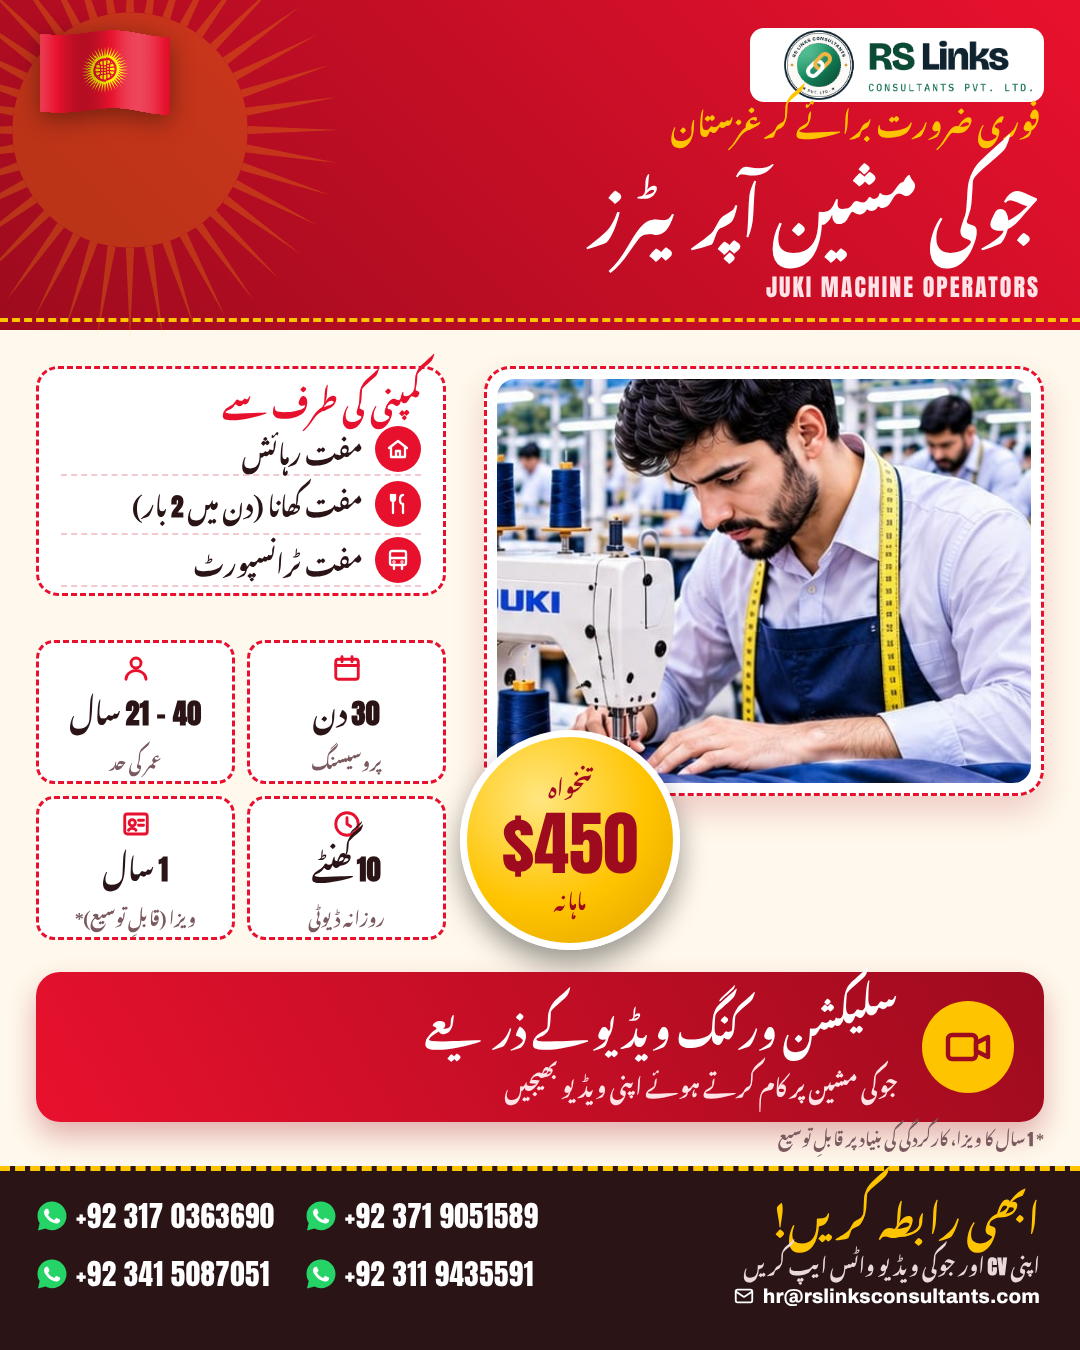
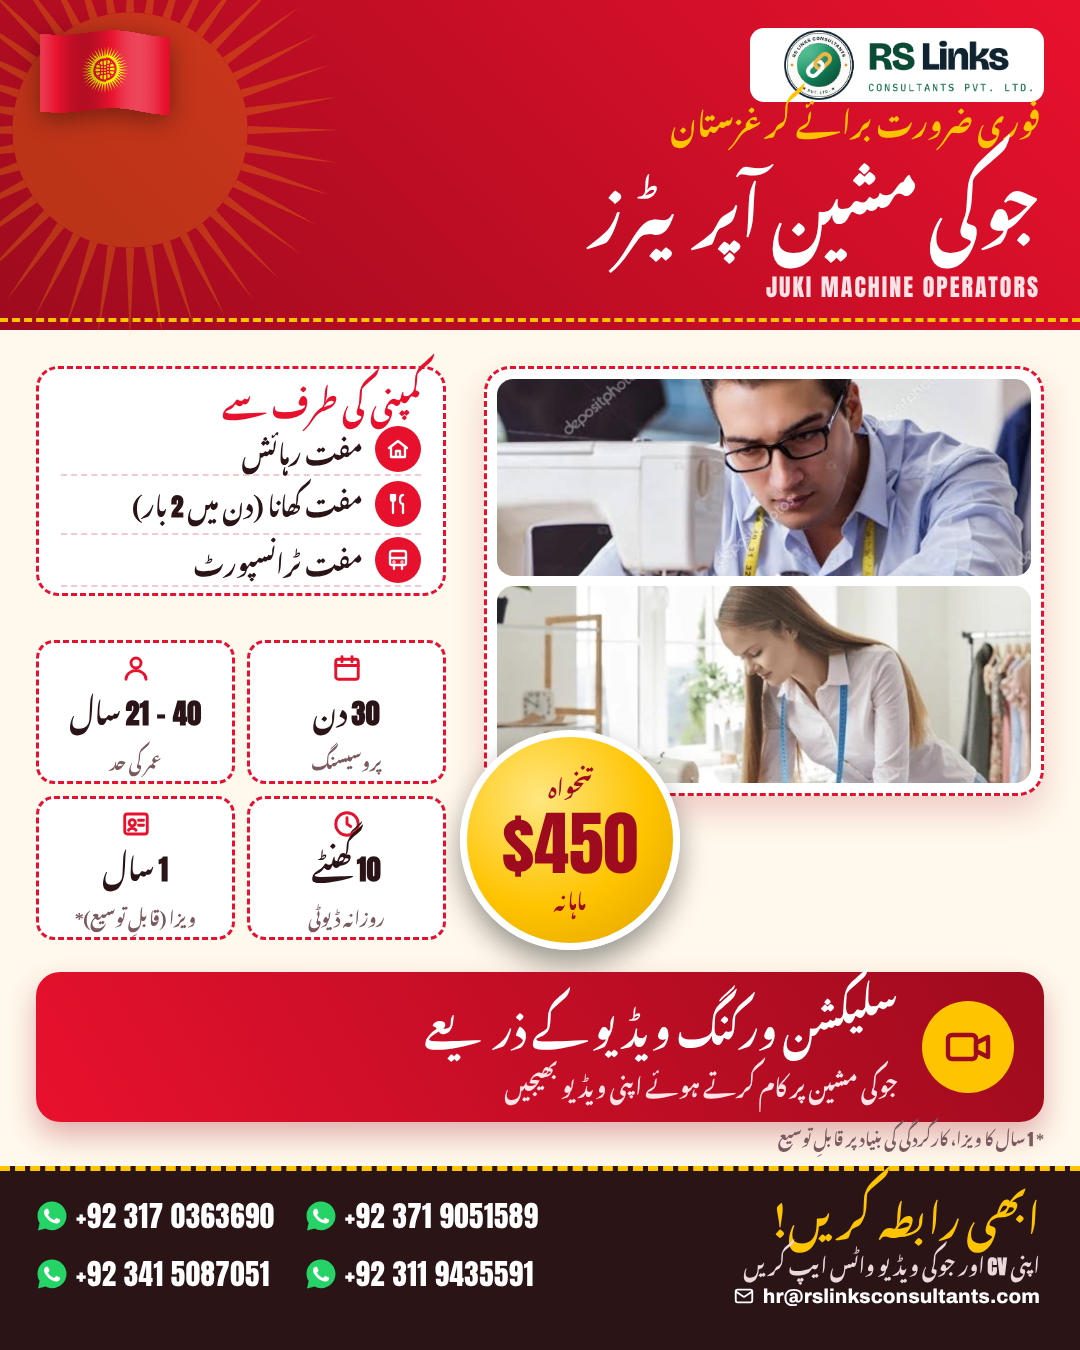
Kyrgyzstan JUKI Urdu ad: user's two sewing photos
Claude-Session: https://claude.ai/code/session_01YJ5ofgU8QCiWTsYR9pvXG4

Changed region(s): [[0.4583, 0.28, 0.9778, 0.5911]]

diff --git a/src/kyrgyzstan_juki_ur.py b/src/kyrgyzstan_juki_ur.py
@@ -21,7 +21,7 @@ def sun(size, color, op):
 
 
 def build():
-    photo = (PHOTOS / "kg_tailor_juki.jpg").as_uri()
+    p1, p2 = (PHOTOS / "sewing_man.jpg").as_uri(), (PHOTOS / "sewing_woman.jpg").as_uri()   # user-supplied pair
     stitch = f"border:3px dashed {RED}"
     fac = [("home", "مفت رہائش"), ("food", "مفت کھانا (دن میں 2 بار)"), ("bus", "مفت ٹرانسپورٹ")]
     fac_li = "".join(f"<div style='display:flex;align-items:center;gap:12px;padding:2px 0;border-bottom:2px dashed #F2C9CF'>"
@@ -43,7 +43,7 @@ def build():
  <div style='font:400 24px Anton;color:#FFE3E6;letter-spacing:2px;direction:ltr;text-align:right;margin-top:10px'>JUKI MACHINE OPERATORS</div></div>
 
 <div class='abs' style='top:366px;right:36px;width:560px;height:430px;border-radius:26px;padding:10px;background:#fff;{stitch};box-sizing:border-box;box-shadow:0 16px 32px rgba(158,11,30,.18)'>
- <div style='width:100%;height:100%;border-radius:18px;overflow:hidden'><img src='{photo}' style='width:100%;height:100%;object-fit:cover;object-position:center 30%'></div></div>
+ <div style='display:flex;flex-direction:column;gap:10px;height:100%'><div style='flex:1;border-radius:16px;overflow:hidden'><img src='{p1}' style='width:100%;height:100%;object-fit:cover;object-position:center 8%'></div><div style='flex:1;border-radius:16px;overflow:hidden'><img src='{p2}' style='width:100%;height:100%;object-fit:cover;object-position:center 35%'></div></div></div>
 <div class='abs' style='top:730px;right:400px;width:220px;height:220px;border-radius:50%;background:radial-gradient(circle at 35% 30%,#FFE680,{SUN} 55%,#E0A000);border:7px solid #fff;box-shadow:0 14px 28px #0006;display:flex;flex-direction:column;align-items:center;justify-content:center'>
  {T('تنخواہ', 22, RED2, 'font-weight:700;margin-bottom:10px', 1.4)}<div style='font:400 70px Anton;color:{RED2};line-height:1'>$450</div>{T('ماہانہ', 20, RED2, 'font-weight:700;margin-top:4px', 1.4)}</div>
 <div class='abs' style='top:366px;left:36px;width:410px;background:#fff;border-radius:22px;{stitch};padding:4px 22px 6px;box-sizing:border-box'>
